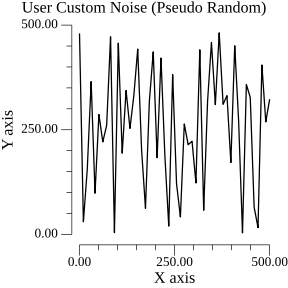
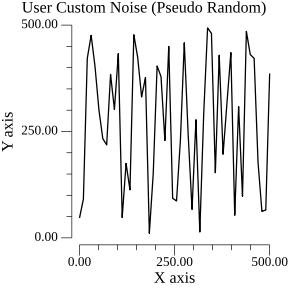
Make 2D custom noise deterministic

diff --git a/_example/2d/main.go b/_example/2d/main.go
@@ -1,8 +1,10 @@
 package main
 
 import (
+	"crypto/sha256"
+	"encoding/binary"
 	"log"
-	"math/rand"
+	"math"
 
 	"github.com/KEINOS/go-noise"
 	"gonum.org/v1/plot"
@@ -25,9 +27,6 @@ const (
 	// The higher the smoother or less difference between the plotting points.
 	smoothness = 100
 )
-
-// rnd is the rand.Rand used by PseudoRrandom() which is the Custom noise generator.
-var rnd *rand.Rand
 
 // ----------------------------------------------------------------------------
 //  Main
@@ -135,24 +134,25 @@ func Normalize(v float64) float64 {
 	return (v + 1) / 2 * float64(height)
 }
 
-// PseudoRrandom is a pseudo-random noise function for use as a user-defined
-// noise generator for the Eval64 method.
+// PseudoRrandom returns deterministic pseudo-random noise for a seed and coordinates.
 func PseudoRrandom(seed int64, dim ...float64) float64 {
-	if rnd == nil {
-		// Set the seed.
-		rnd = rand.New(rand.NewSource(seed))
-	}
+	hash := sha256.New()
+	var word [8]byte
 
-	for i := 0; i < len(dim); i++ {
-		v := int(dim[i])
+	binary.LittleEndian.PutUint64(word[:], uint64(seed))
+	_, _ = hash.Write(word[:])
 
-		for ii := 0; ii < v; ii++ {
-			//nolint:gosec // Use of weak random number generation is intended for simple examples.
-			_ = rnd.Float64()
+	for _, coordinate := range dim {
+		if coordinate == 0 {
+			coordinate = 0 // Treat positive and negative zero as the same coordinate.
 		}
+
+		binary.LittleEndian.PutUint64(word[:], math.Float64bits(coordinate))
+		_, _ = hash.Write(word[:])
 	}
 
-	s := rnd.Float64() // 0.0 - 0.9999...
+	// Use 53 bits to keep the result in (-1, 1] without rounding to -1.
+	bits := binary.LittleEndian.Uint64(hash.Sum(nil)) >> 11
 
-	return s*2 - 1 // Convert [0.0,1.0) to [-1.0,1.0]
+	return 1 - float64(bits)*0x1p-52
 }

diff --git a/_example/2d/pseudorandom_test.go b/_example/2d/pseudorandom_test.go
@@ -1,0 +1,33 @@
+package main
+
+import (
+	"math"
+	"testing"
+
+	"github.com/stretchr/testify/require"
+)
+
+func TestPseudoRrandomSameInput(t *testing.T) {
+	first := PseudoRrandom(100, 1.25)
+	require.Equal(t, first, PseudoRrandom(100, 1.25))
+
+	PseudoRrandom(100, 1.75)
+	PseudoRrandom(101, 1.25)
+	require.Equal(t, first, PseudoRrandom(100, 1.25))
+}
+
+func TestPseudoRrandomUsesSeedAndCoordinates(t *testing.T) {
+	first := PseudoRrandom(100, 1.25)
+
+	require.NotEqual(t, first, PseudoRrandom(101, 1.25))
+	require.NotEqual(t, first, PseudoRrandom(100, 1.75))
+	require.NotEqual(t, first, PseudoRrandom(100, 1.25, 0))
+	require.NotEqual(t, PseudoRrandom(100, 1.25, 2.5), PseudoRrandom(100, 2.5, 1.25))
+	require.Equal(t, PseudoRrandom(100, 0), PseudoRrandom(100, math.Copysign(0, -1)))
+
+	for seed := int64(-100); seed <= 100; seed++ {
+		value := PseudoRrandom(seed, float64(seed)/4)
+		require.Greater(t, value, -1.0)
+		require.LessOrEqual(t, value, 1.0)
+	}
+}

diff --git a/_example/README.md b/_example/README.md
@@ -2,7 +2,7 @@
 
 ## 2D
 
-This example plots one-dimensional noise as a 2D line graph. It uses Go 1.22 or later. The example module declares Gonum Plot and uses the go-noise source from this checkout.
+This example plots one-dimensional noise as a 2D line graph. It uses Go 1.22 or later. The example module declares Gonum Plot and uses the go-noise source from this checkout. The custom noise plot gives the same value each time you evaluate the same seed and coordinates.
 
 Run from the repository root:
 
